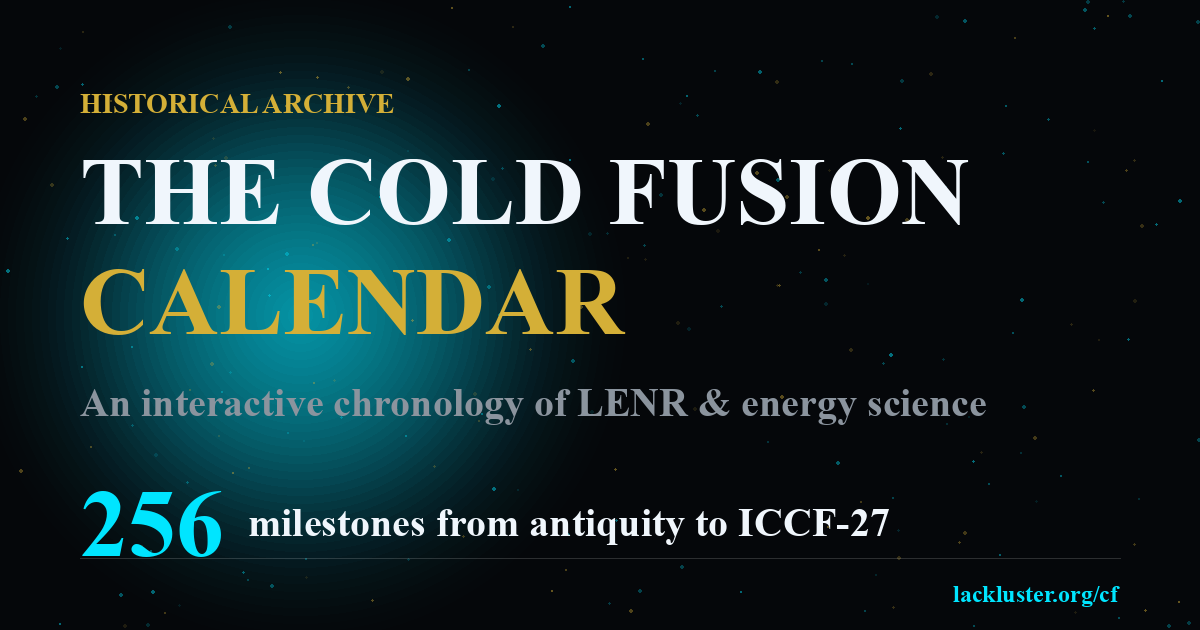
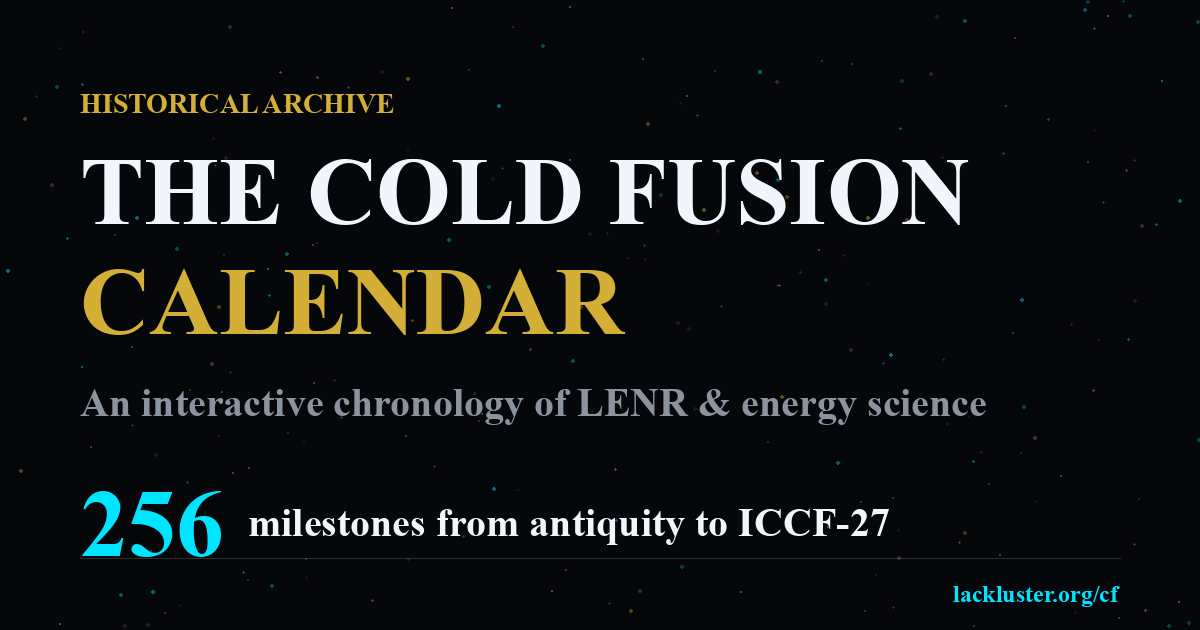
Make deploy.sh safe to commit via .env config
- deploy.sh now reads DEPLOY_USER/HOST/PATH/URL from a gitignored .env
- .env.example committed as the public template; users 'cp .env.example .env'
- deploy.sh excludes .env and .env.example from rsync so they never leak
- README documents the cp+edit+./deploy.sh flow

Changed region(s): [[0.0308, 0.0905, 0.4625, 0.9048]]

diff --git a/README.md b/README.md
@@ -98,6 +98,30 @@ Append the exact stub blurb to `datasets/drops.txt`.
 
 Add a new entry to `additions.json` with the **same `name` and matching first 50 normalized characters of `blurb`** — the dedup key collides and `additions.json` always wins.
 
+## Deploying your own copy
+
+1. Copy `.env.example` to `.env` and edit it:
+
+   ```bash
+   cp .env.example .env
+   $EDITOR .env
+   ```
+
+   Set `DEPLOY_USER`, `DEPLOY_HOST`, `DEPLOY_PATH` and (optionally) `DEPLOY_URL`. SSH key access to the host is required — `ssh "$DEPLOY_USER@$DEPLOY_HOST"` should already work non-interactively.
+
+2. Run the deployer:
+
+   ```bash
+   ./deploy.sh
+   ```
+
+   It will:
+   - Rebuild `data.json` from `data.json.original` + xlsx + `additions.json` + `drops.txt`
+   - Regenerate `assets/og-cf-calendar.png` with the current event count and latest ICCF
+   - rsync the static site to your server (excluding sources, build scripts, `.git`, README, `.env`)
+
+`.env` is gitignored — your credentials and server paths stay private. `.env.example` is the public template forks should copy from.
+
 ## Acknowledgements
 
 - Original interactive calendar template: [Ray Studio](http://raybrowser.com/) running on Ray Browser
